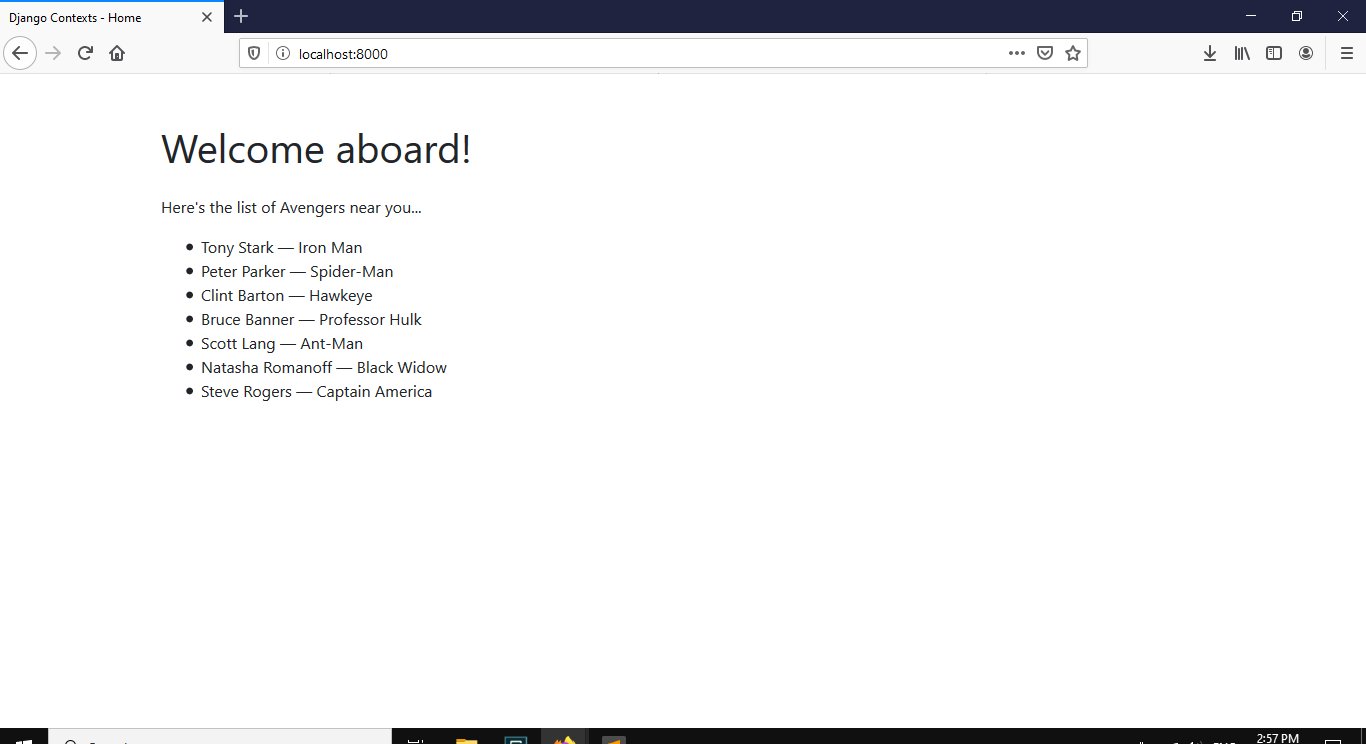
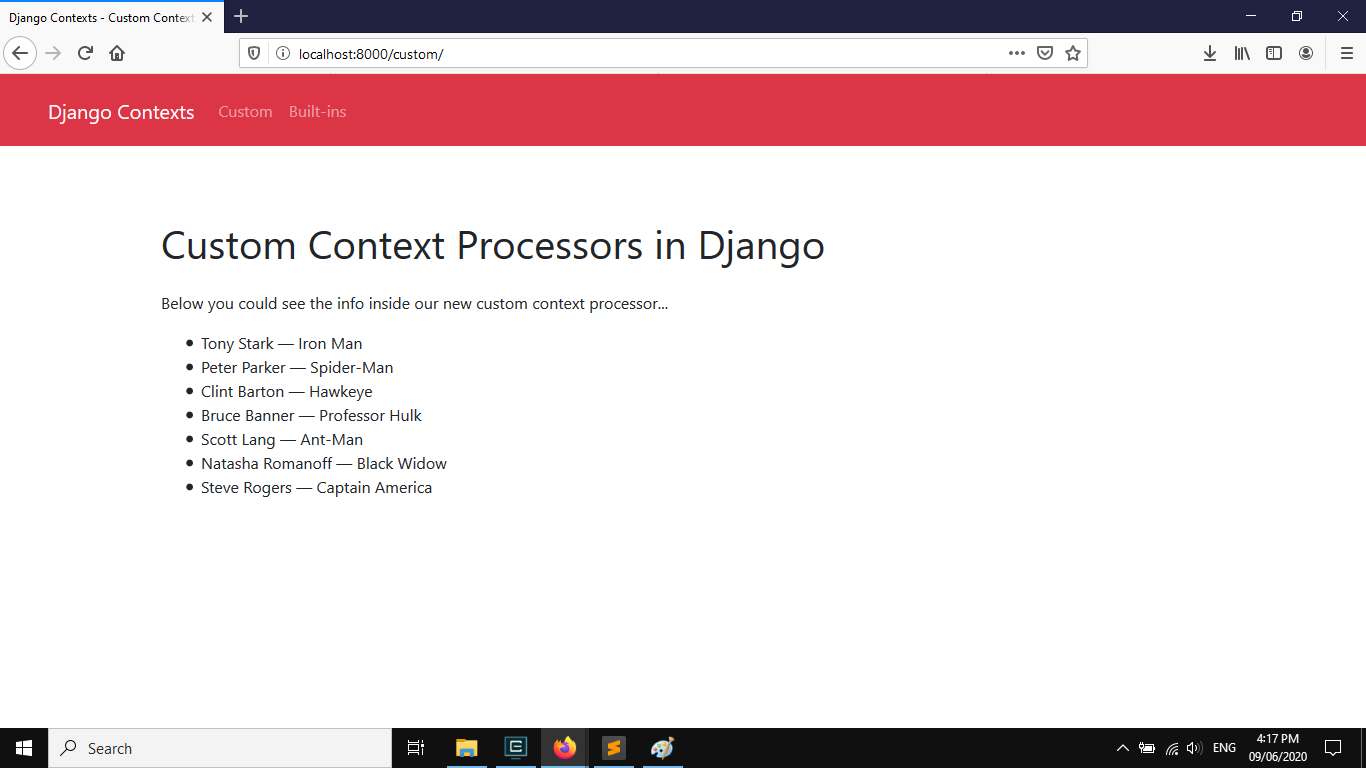
Added examples for built-in context processors; Modified README.md for documentation

diff --git a/templates/main/builtins.html b/templates/main/builtins.html
@@ -1,0 +1,41 @@
+{% extends 'base.html' %}
+
+
+{% block title %} Built-in Context Processors {% endblock %}
+
+
+{% block content %}
+
+<h1 class="mb-4">Built-in Context Processors in Django</h1>
+
+<h2 class="mt-5 mb-4">Debug</h2>
+
+<p>The value of <code>debug</code> is &mdash; {{ debug }}.</p>
+<p>The value of <code>sql_queries</code> is &mdash; {{ sql_queries }}.</p>
+
+
+<h2 class="mt-5 mb-4">Request</h2>
+
+<p>The value of <code>request.GET</code> is &mdash; {{ request.GET }}.</p>
+<p>The value of <code>request.POST</code> is &mdash; {{ request.POST }}.</p>
+<p>The value of <code>request.COOKIES</code> is &mdash; {{ request.COOKIES }}.</p>
+<p>The value of <code>request.CONTENT_TYPE</code> is &mdash;
+    {{ request.CONTENT_TYPE }}.</p>
+<p>The value of <code>request.META</code> is &mdash;
+    <pre class="pre-scrollable">{{ request.META | pprint }}</pre>.</p>
+<p>The value of <code>request.REMOTE_ADDR</code> is &mdash;
+    {{ request.REMOTE_ADDR }}.</p>
+
+
+<h2 class="mt-5 mb-4">Auth</h2>
+
+<p>The value of <code>user</code> is &mdash; {{ user }}.</p>
+<p>The value of <code>perms</code> is &mdash; {{ perms }}.</p>
+
+<h2 class="mt-5 mb-4">Messages</h2>
+
+<p>The value of <code>messages</code> is &mdash; {{ messages  }}.</p>
+<p>The value of <code>DEFAULT_MESSAGE_LEVELS</code> is &mdash;
+    {{ DEFAULT_MESSAGE_LEVELS }}.</p>
+
+{% endblock %}

diff --git a/templates/partials/navbar.html b/templates/partials/navbar.html
@@ -1,0 +1,22 @@
+<nav class="navbar sticky-top navbar-expand-lg navbar-dark bg-danger mb-4 px-5 py-3">
+    <a class="navbar-brand" href="{% url 'main:index' %}">Django Contexts</a>
+    <button class="navbar-toggler" type="button" data-toggle="collapse"
+        data-target="#navbarNav" aria-controls="navbarNav"
+        aria-expanded="false" aria-label="Toggle navigation">
+            <span class="navbar-toggler-icon"></span>
+    </button>
+    <div class="collapse navbar-collapse" id="navbarNav">
+        <ul class="text-white navbar-nav">
+            <li class="nav-item">
+                <a class="nav-link" href="{% url 'main:custom' %}">
+                    Custom
+                </a>
+            </li>
+            <li class="nav-item">
+                <a class="nav-link" href="{% url 'main:builtins' %}">
+                    Built-ins
+                </a>
+            </li>
+        </ul>
+    </div>
+</nav>

diff --git a/templates/main/index.html b/templates/main/index.html
@@ -8,12 +8,12 @@
 
 <h1 class="mb-4">Welcome aboard!</h1>
 
-<p>Here's the list of Avengers near you...</p>
-
-<ul>
-    {% for real_name, avenger_name in avengers.items %}
-        <li>{{ real_name }} &mdash; {{ avenger_name }} </li>
-    {% endfor %}
-</ul>
+<p>
+    Feel free to explore this app to see examples of built-in and custom
+    context processors in Django. If you would like to see the example for
+    custom context processors, go <a href="{% url 'main:custom' %}">here</a>.
+    However, you could opt to check <a href="{% url 'main:builtins' %}">
+    examples for built-in context processors.</a>
+</p>
 
 {% endblock %}

diff --git a/templates/main/custom.html b/templates/main/custom.html
@@ -1,0 +1,19 @@
+{% extends 'base.html' %}
+
+
+{% block title %} Custom Context Processors {% endblock %}
+
+
+{% block content %}
+
+<h1 class="mb-4">Custom Context Processors in Django</h1>
+
+<p>Below you could see the info inside our new custom context processor...</p>
+
+<ul>
+    {% for real_name, avenger_name in avengers.items %}
+        <li>{{ real_name }} &mdash; {{ avenger_name }} </li>
+    {% endfor %}
+</ul>
+
+{% endblock %}

diff --git a/templates/base.html b/templates/base.html
@@ -6,9 +6,16 @@
     </title>
 
     {% include 'partials/library_includes.html' %}
+
+    <style type="text/css">
+        pre {
+            white-space: pre-wrap;
+        }
+    </style>
 </head>
 <body>
-    <div class="container my-5 px-5">
+    {% include 'partials/navbar.html' %}
+    <div class="container p-5">
         {% block content %}
         {% endblock %}
     </div>

diff --git a/main/urls.py b/main/urls.py
@@ -1,7 +1,9 @@
 from django.urls import path
-from main.views import IndexView
+from main.views import IndexView, BuiltinsView, CustomView
 
 app_name = 'main'
 urlpatterns = [
-    path('', IndexView.as_view(), name='index')
+    path('', IndexView.as_view(), name='index'),
+    path('builtins/', BuiltinsView.as_view(), name='builtins'),
+    path('custom/', CustomView.as_view(), name='custom')
 ]

diff --git a/main/views.py b/main/views.py
@@ -4,3 +4,11 @@ from django.views import View
 class IndexView(View):
     def get(self, request):
         return render(request, 'main/index.html')
+
+class BuiltinsView(View):
+    def get(self, request):
+        return render(request, 'main/builtins.html')
+
+class CustomView(View):
+    def get(self, request):
+        return render(request, 'main/custom.html')

diff --git a/README.md b/README.md
@@ -1,5 +1,10 @@
 # Playing with Django Context Processors
 
+## Built-in Context Processors
+
+You could use these built-ins straight into your templates. You could also check ![templates/main/builtins.html](/templates/main/builtins.html).
+
+![screenshot_02](/images/screenshot_02.png)
 
 ## Creating Your Own Context Processor
 
@@ -48,6 +53,6 @@ TEMPLATES = [
 ]
 ```
 
-You could refer to [templates/main/index.html](/templates/main/index.html) for using the context in your template. Your browser should look something like this.
+You could refer to [templates/main/custom.html](/templates/main/custom.html) for using the context in your template. Your browser should look something like this.
 
 ![screenshot_01](/images/screenshot_01.png)
